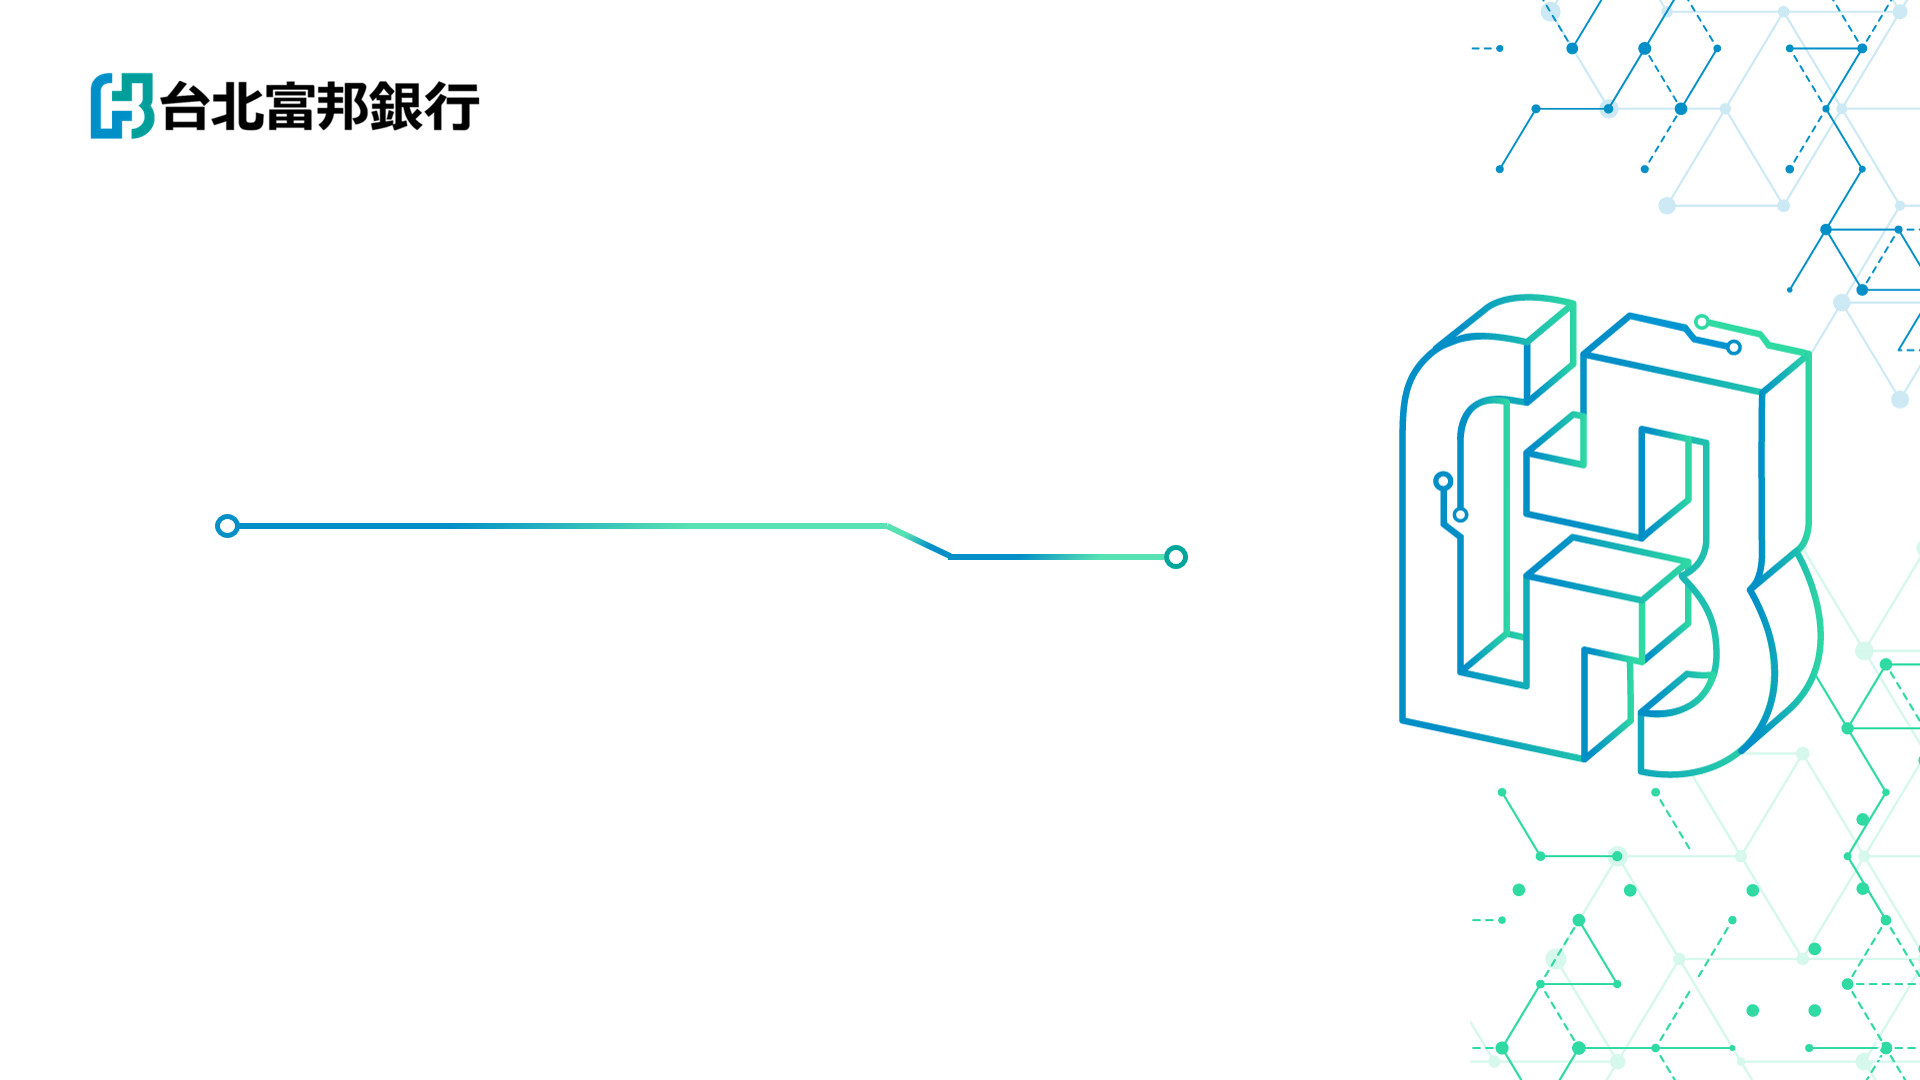
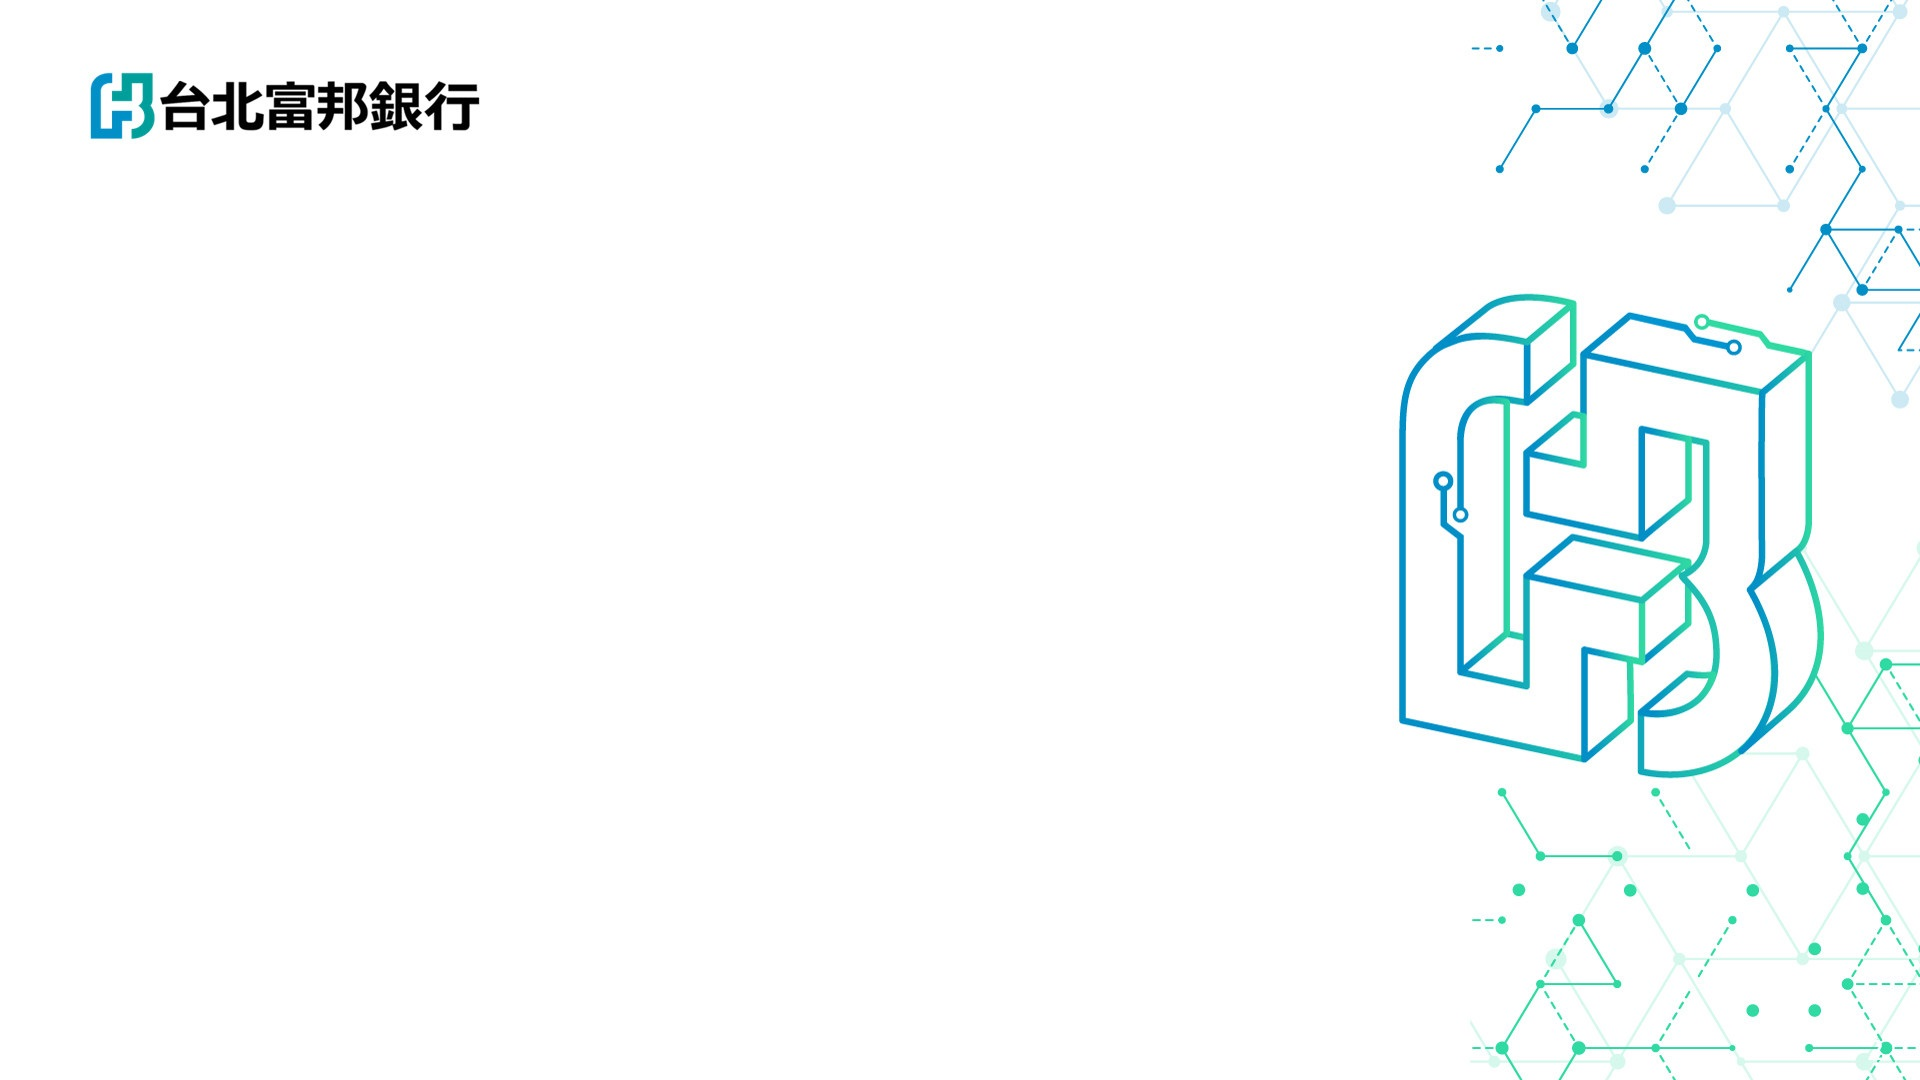
更新格式

diff --git a/範本.html b/範本.html
@@ -265,10 +265,21 @@
                 margin: 0;
             }
 
+            .svg-gap {
+                grid-column: 1 / -1;
+                margin: -30px 2em -30px;
+            }
+
+            .svg-container {
+                width: 100%;
+                height: auto;
+                display: block;
+            }
+
             .subtitle {
                 font-size: 38px;
                 font-weight: 700;
-                margin-top: 0em;
+                margin-top: -1em;
                 margin-bottom: 40px;
                 margin-left: 4em;
                 grid-column: 1;
@@ -279,27 +290,8 @@
                 padding: 6px 14px;
                 font-size: 22px;
                 color: var(--primary-1);
-                margin-top: 2em;
-                margin-bottom: 40px;
                 grid-column: 2;
-                margin-left: 10ch;
             }
-
-            .subtitle2 {
-                color: var(--accent-2);
-                font-size: 30px;
-                font-weight: bold;
-                margin-left: 2em;
-                margin-top: 5em;
-            }
-
-            .my-name {
-                margin-top: 6em;
-                font-size: 25px;
-                color: var(--primary-2);
-                font-weight: 700;
-            }
-
         }
 
         #slide-2 {
@@ -2564,7 +2556,24 @@
 </head>
 
 <body>
-
+    <svg aria-hidden="true" focusable="false" style="position:absolute;width:0;height:0;">
+        <defs>
+            <linearGradient id="multi-gradient" x1="0%" y1="0%" x2="100%" y2="0%">
+                <stop offset="0%" style="stop-color:#008FC7;" />
+                <stop offset="71.4%" style="stop-color:#30DAA2;" />
+                <stop offset="76.8%" style="stop-color:#008FC7;" />
+                <stop offset="100%" style="stop-color:#30DAA2;" />
+            </linearGradient>
+            <symbol id="topic-line" viewBox="0 0 600 60">
+                <g fill="none" stroke-width="3">
+                    <polyline points="20,25 420,25 450,45 580,45" stroke="url(#multi-gradient)" stroke-linecap="round"
+                        stroke-linejoin="round" />
+                    <circle cx="20" cy="25" r="5" stroke="#008FC7" fill="#fff" stroke-width="3" />
+                    <circle cx="580" cy="45" r="5" stroke="#30DAA2" fill="#fff" stroke-width="3" />
+                </g>
+            </symbol>
+        </defs>
+    </svg>
     <div id="presentation-container">
         <!-- 導覽列 -->
         <div class="controls">
@@ -2577,14 +2586,15 @@
         <div class="slide active" id="slide-1">
             <div class="outer">
                 <div class="title-box">
-                    <h1>Agent Skills<br>導入策略與落地藍圖</h1>
+                    <h1>Agent Skills導入策略與落地藍圖</h1>
+                </div>
+                <div class="svg-gap">
+                    <svg viewBox="0 0 600 60" xmlns="http://www.w3.org/2000/svg" class="svg-container">
+                        <use href="#topic-line"></use>
+                    </svg>
                 </div>
                 <div class="subtitle">建構可治理的模組化知識資產</div>
-                <div class="date-badge">2026.02</div>
-                <p class="subtitle2">
-                    <i class="fas fa-building"></i> 專為高嚴謹度金融與企業環境設計
-                </p>
-                <div class="my-name">部門 姓名</div>
+                <div class="date-badge">部門 姓名<br />2026.02</div>
             </div>
         </div>
 
@@ -2618,24 +2628,6 @@
 
         <!-- slide-3 每一章節的目錄及頁碼,h2不可改 -->
         <div class="slide" id="slide-3">
-            <svg aria-hidden="true" focusable="false" style="position:absolute;width:0;height:0;">
-                <defs>
-                    <linearGradient id="multi-gradient" x1="0%" y1="0%" x2="100%" y2="0%">
-                        <stop offset="0%" style="stop-color:#008FC7;" />
-                        <stop offset="71.4%" style="stop-color:#30DAA2;" />
-                        <stop offset="76.8%" style="stop-color:#008FC7;" />
-                        <stop offset="100%" style="stop-color:#30DAA2;" />
-                    </linearGradient>
-                    <symbol id="topic-line" viewBox="0 0 600 60">
-                        <g fill="none" stroke-width="3">
-                            <polyline points="20,25 420,25 450,45 580,45" stroke="url(#multi-gradient)"
-                                stroke-linecap="round" stroke-linejoin="round" />
-                            <circle cx="20" cy="25" r="5" stroke="#008FC7" fill="#fff" stroke-width="3" />
-                            <circle cx="580" cy="45" r="5" stroke="#30DAA2" fill="#fff" stroke-width="3" />
-                        </g>
-                    </symbol>
-                </defs>
-            </svg>
             <div class="outer">
                 <h2 class="slide-title">目錄<span>CONTENTS</span></h2>
                 <div class="list">
@@ -3784,7 +3776,7 @@
         <div class="slide" id="slide-19">
         </div>
     </div>
-    <script src="https://abbeego.github.io/MyStyleSlide/control.js"></script>
+    <script src="control.js"></script>
 </body>
 
 </html>
